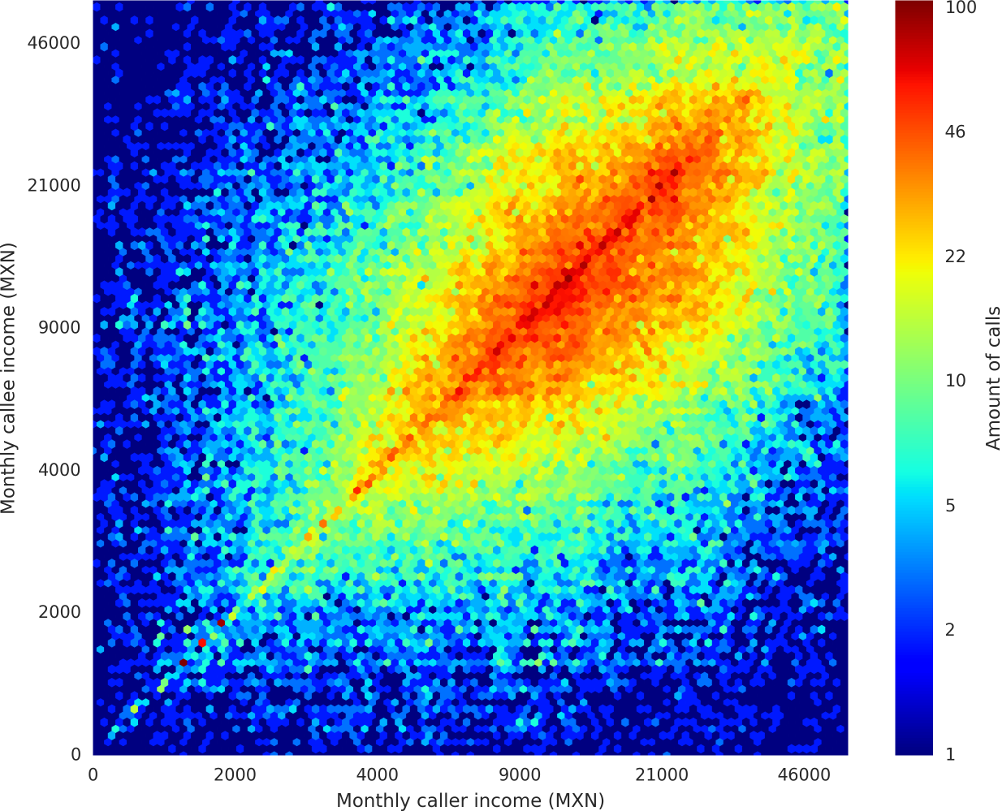
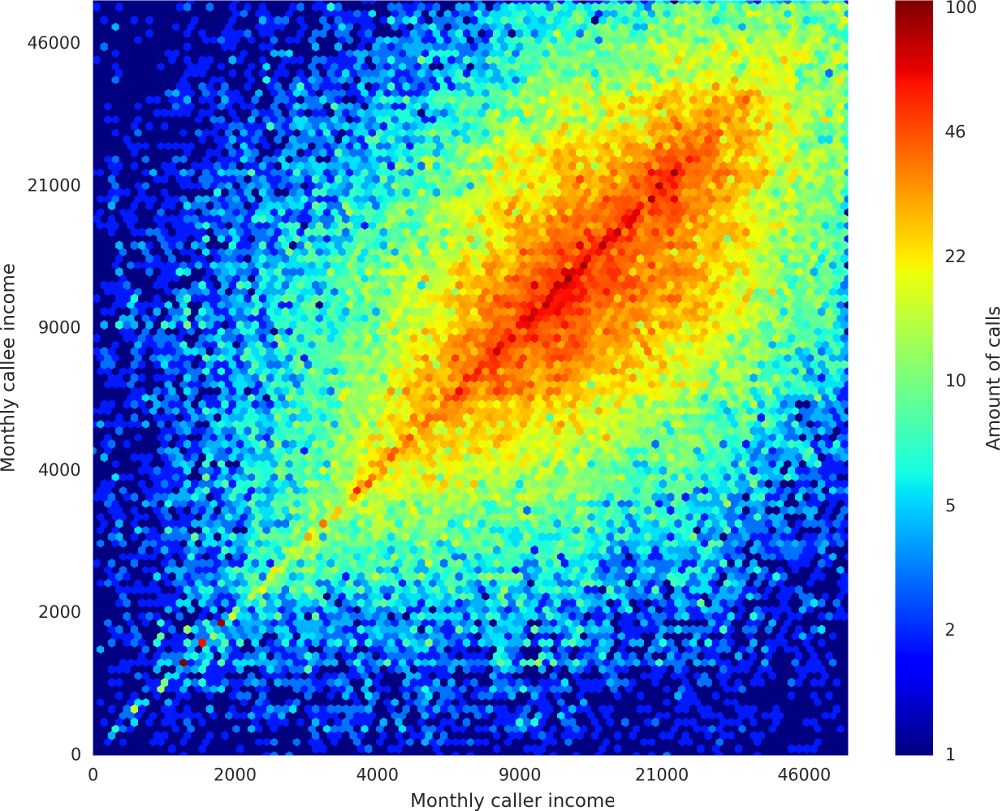
Removed all remaining references to the test country, including photoshopping the images.

Changed region(s): [[0.341, 0.9556, 0.62, 1.0], [0.0, 0.3083, 0.031, 0.6473]]

diff --git a/Tesis/data_source.tex b/Tesis/data_source.tex
@@ -1,4 +1,4 @@
-% !TEX root = tesis.tex
+%h !TEX root = tesis.tex
 
 % \chapter{Experimental Dataset}
 
@@ -10,7 +10,7 @@
 
 \subsection{Dataset Description}
 
-The data used in this study consist of a multiset $P$ of composed of voice calls, and another multiset $S$ composed of text messages from a Mexican telecommunication company (\textit{telco}) for a 3 month period. These two sets are referred as the \emph{Call Detail Records}, or CDRs.
+The data used in this study consist of a multiset $P$ of composed of voice calls, and another multiset $S$ composed of text messages from a certain telecommunication company (\textit{telco}) for a 3 month period. These two sets are referred as the \emph{Call Detail Records}, or CDRs.
 
 Every call $p \in P$ contains the phone numbers of the caller and callee $\left< p_o, p_d \right>$, which are anonymized using a cryptographic hash function for privacy reasons, the starting time $p_t$, and the call duration $p_s$. The same datum, except for the call duration, can be found for each element $s \in S$.
 
@@ -92,6 +92,8 @@ For this study we also obtained the set $B$ of account balanced of over 10 milli
 
 The bank also provided us demographic information for a subset of its clients $A \subseteq B$. For each user $a \in A$, we are given the age $a_a$ and the gender $a_g$ of the user, which allows us to observe differences in the income distribution according to the age. The distribution is shown in \cref{fig:gender_age_bar}, 
 
+Our data source requested the income data to be agnostic of currency. Since this study could apply to any country with a similar level of bancarization, the standard symbol ¤ will be used to refer to this generic currency~\cite{ISO8859}.
+
 \begin{figure}
 \centering
 \includegraphicsmaybe{figures/gender_age_bar3/gender_age_bar3.png}
@@ -151,7 +153,7 @@ The dataset contains information about bank and telco users, some of which may n
 Most of the telco users in the first case are already filtered by the intersection between the bank and the telco data. However, to make sure the users are relevant enough for this study, we only keep the users which have a minimum amount of information, defined in the following items.
 
 \begin{itemize}
-	\item A monthly income of at least \$\num{1000}.
+	\item A monthly income of at least ¤\num{1000}.
 	\item A monthly income in the \num{99}th percentile (i.e.\ we filter users with a monthly income in the top 1\%).
 \end{itemize}
 

diff --git a/Tesis/inference_methodology.tex b/Tesis/inference_methodology.tex
@@ -29,7 +29,7 @@ We can take advantage of this homophily to propagate income information to the r
 
 The main objective of this research is to identify users with higher income. To make the task simpler and more efficient, the actual income values as described in \cref{subsec:bank_source} are forfeited and instead the customers are separated into distinct groups: $H_1$, containing customers whose income is lower or equal than the median, and $H_2$, containing users whose income is higher than this value. From now on, these will be referred as \emph{Low Income} and \emph{High Income} users respectively.
 
-The median value in the dataset, after accounting for outliers as explained in \cref{subsec:outlier_filtering}, is of exactly \textbf{\$6300}. This way, we can define the two groups as in \cref{eq:h}.
+The median value in the dataset, after accounting for outliers as explained in \cref{subsec:outlier_filtering}, is of exactly \textbf{¤6300}. This way, we can define the two groups as in \cref{eq:h}.
 
 \begin{equation}
 \label{eq:h}

diff --git a/Tesis/comparison.tex b/Tesis/comparison.tex
@@ -192,6 +192,7 @@ Indeed, for any graph $G = \left< V, E \right>$ we can define features with form
 \begin{equation}
 	\begin{aligned}
 		\incalls^n_v = \sum_{\subalign{e \in E \\ d \left( e_o, v \right) &= n \\ d \left( e_d, v \right) &= n + 1 }} \calls_e &
+		\hfill &
 		\outcalls^n_v = \sum_{\subalign{e \in E \\ d \left( e_d, v \right) &= n \\ d \left( e_o, v \right) &= n + 1 }} \calls_e \\
 	\end{aligned}
 \label{eq:higher_order_user_data}

diff --git a/Tesis/tesis.tex b/Tesis/tesis.tex
@@ -45,7 +45,7 @@
 \usetikzlibrary{arrows}
 \usetikzlibrary{bayesnetWLee}
 
-\bibliographystyle{alpha}
+\bibliographystyle{alphaurl}
 
 \newcommand{\todo}[1]{\textbf{\color{red} TODO:\@ #1}}
 \newcommand{\maybe}[1]{\footnote{\color{red} #1}}
